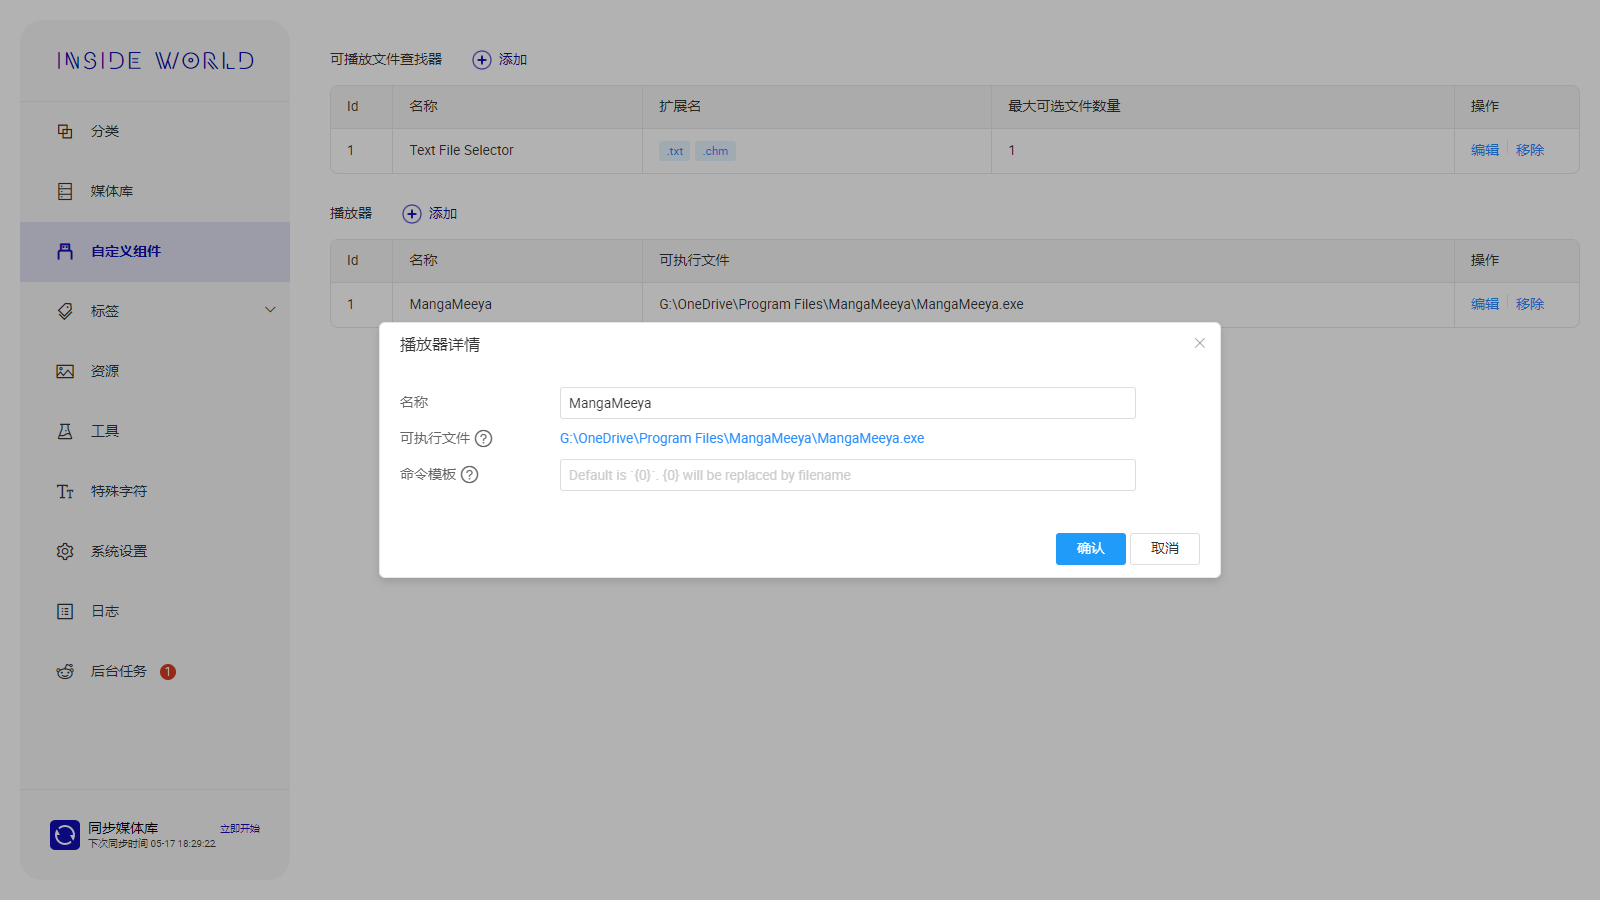
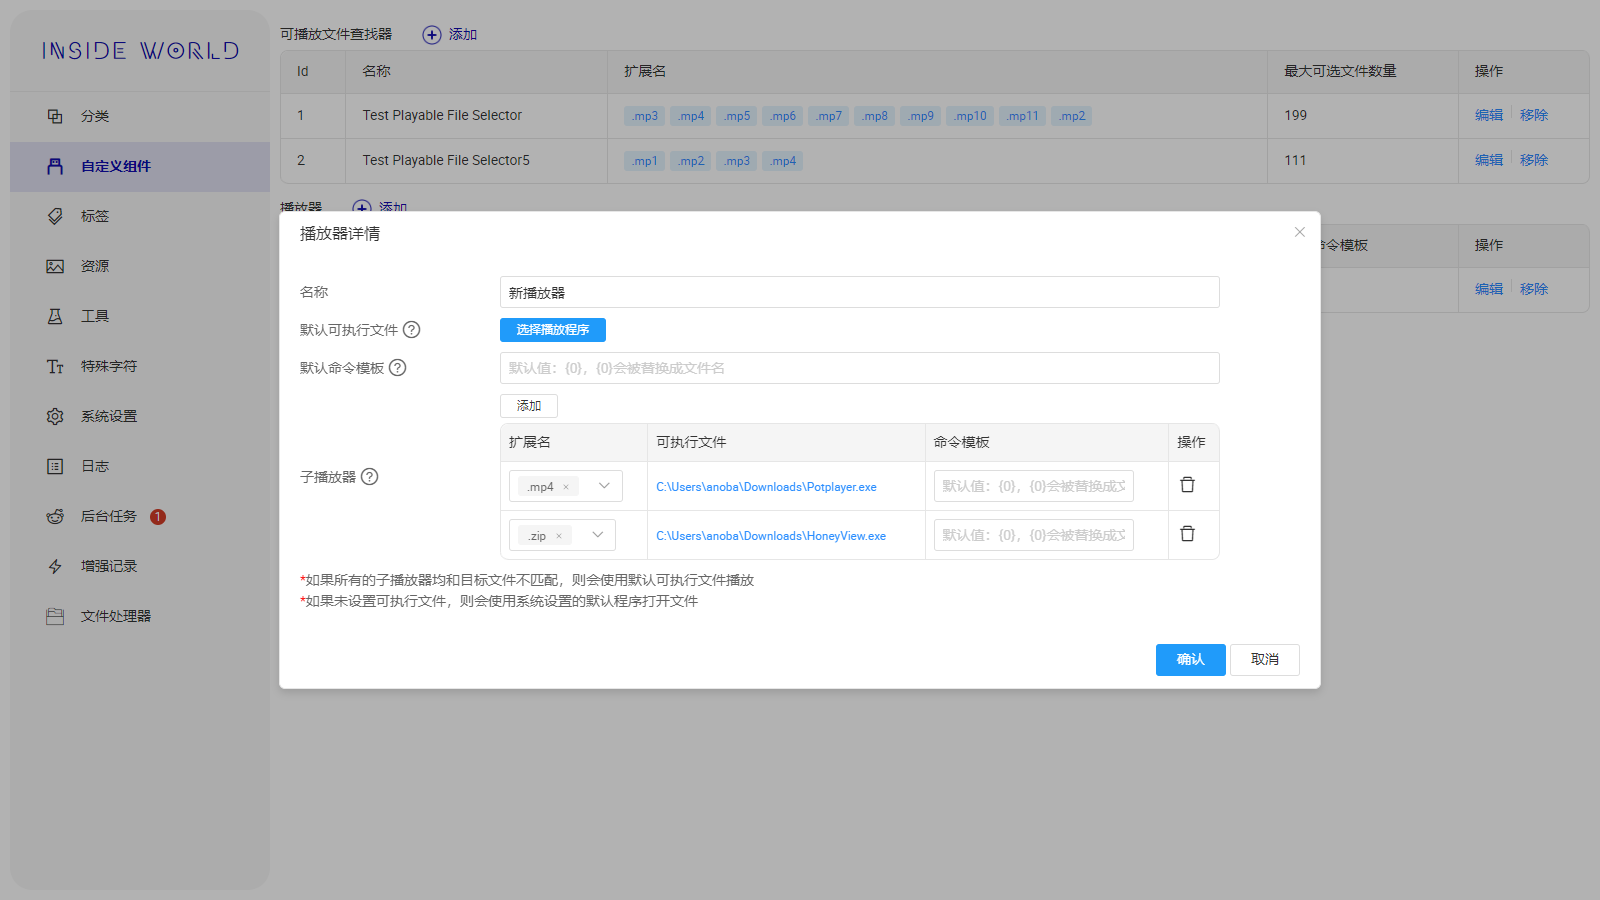
update

diff --git a/docs/doc/custom-component-player.md b/docs/doc/custom-component-player.md
@@ -1,5 +1,6 @@
-![custom-component-player](/img/custom-component-player-1.png)
+**注：子播放器功能仅在v1.6.1后可用**
 
+![custom-component-player](/img/custom-component-player-1.png)
 
 **为什么自定义播放器无法启动/启动后未正常打开可播放文件**
 
